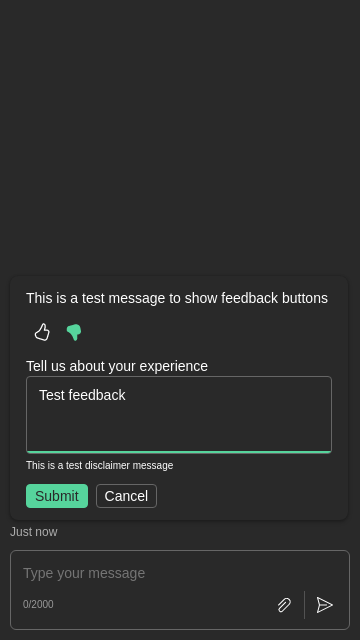
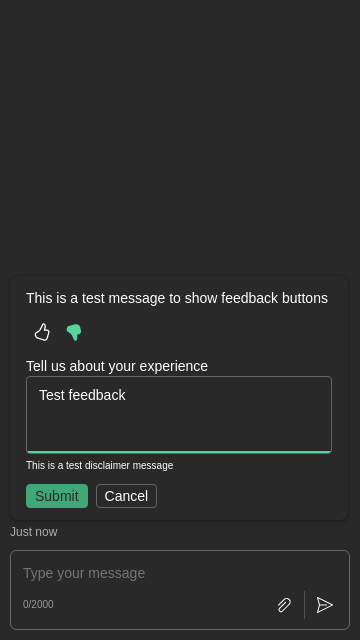
More colors fixed and snaps

Changed region(s): [[0.0611, 0.75, 0.2444, 0.8125]]

diff --git a/packages/fluent-theme/src/components/theme/Theme.module.css b/packages/fluent-theme/src/components/theme/Theme.module.css
@@ -647,8 +647,8 @@
 }
 
 :global(.webchat-fluent).theme :global(.webchat__feedback-form__button__submit) {
-  background-color: var(--webchat-colorBrandForeground1);
-  border: var(--webchat-strokeWidthThin) solid var(--webchat-colorBrandForeground1);
+  background-color: var(--webchat-colorBrandBackground);
+  border: var(--webchat-strokeWidthThin) solid var(--webchat-colorBrandBackground);
   border-radius: var(--webchat-borderRadiusMedium);
   color: var(--webchat-colorNeutralForegroundOnBrand);
   cursor: pointer;
